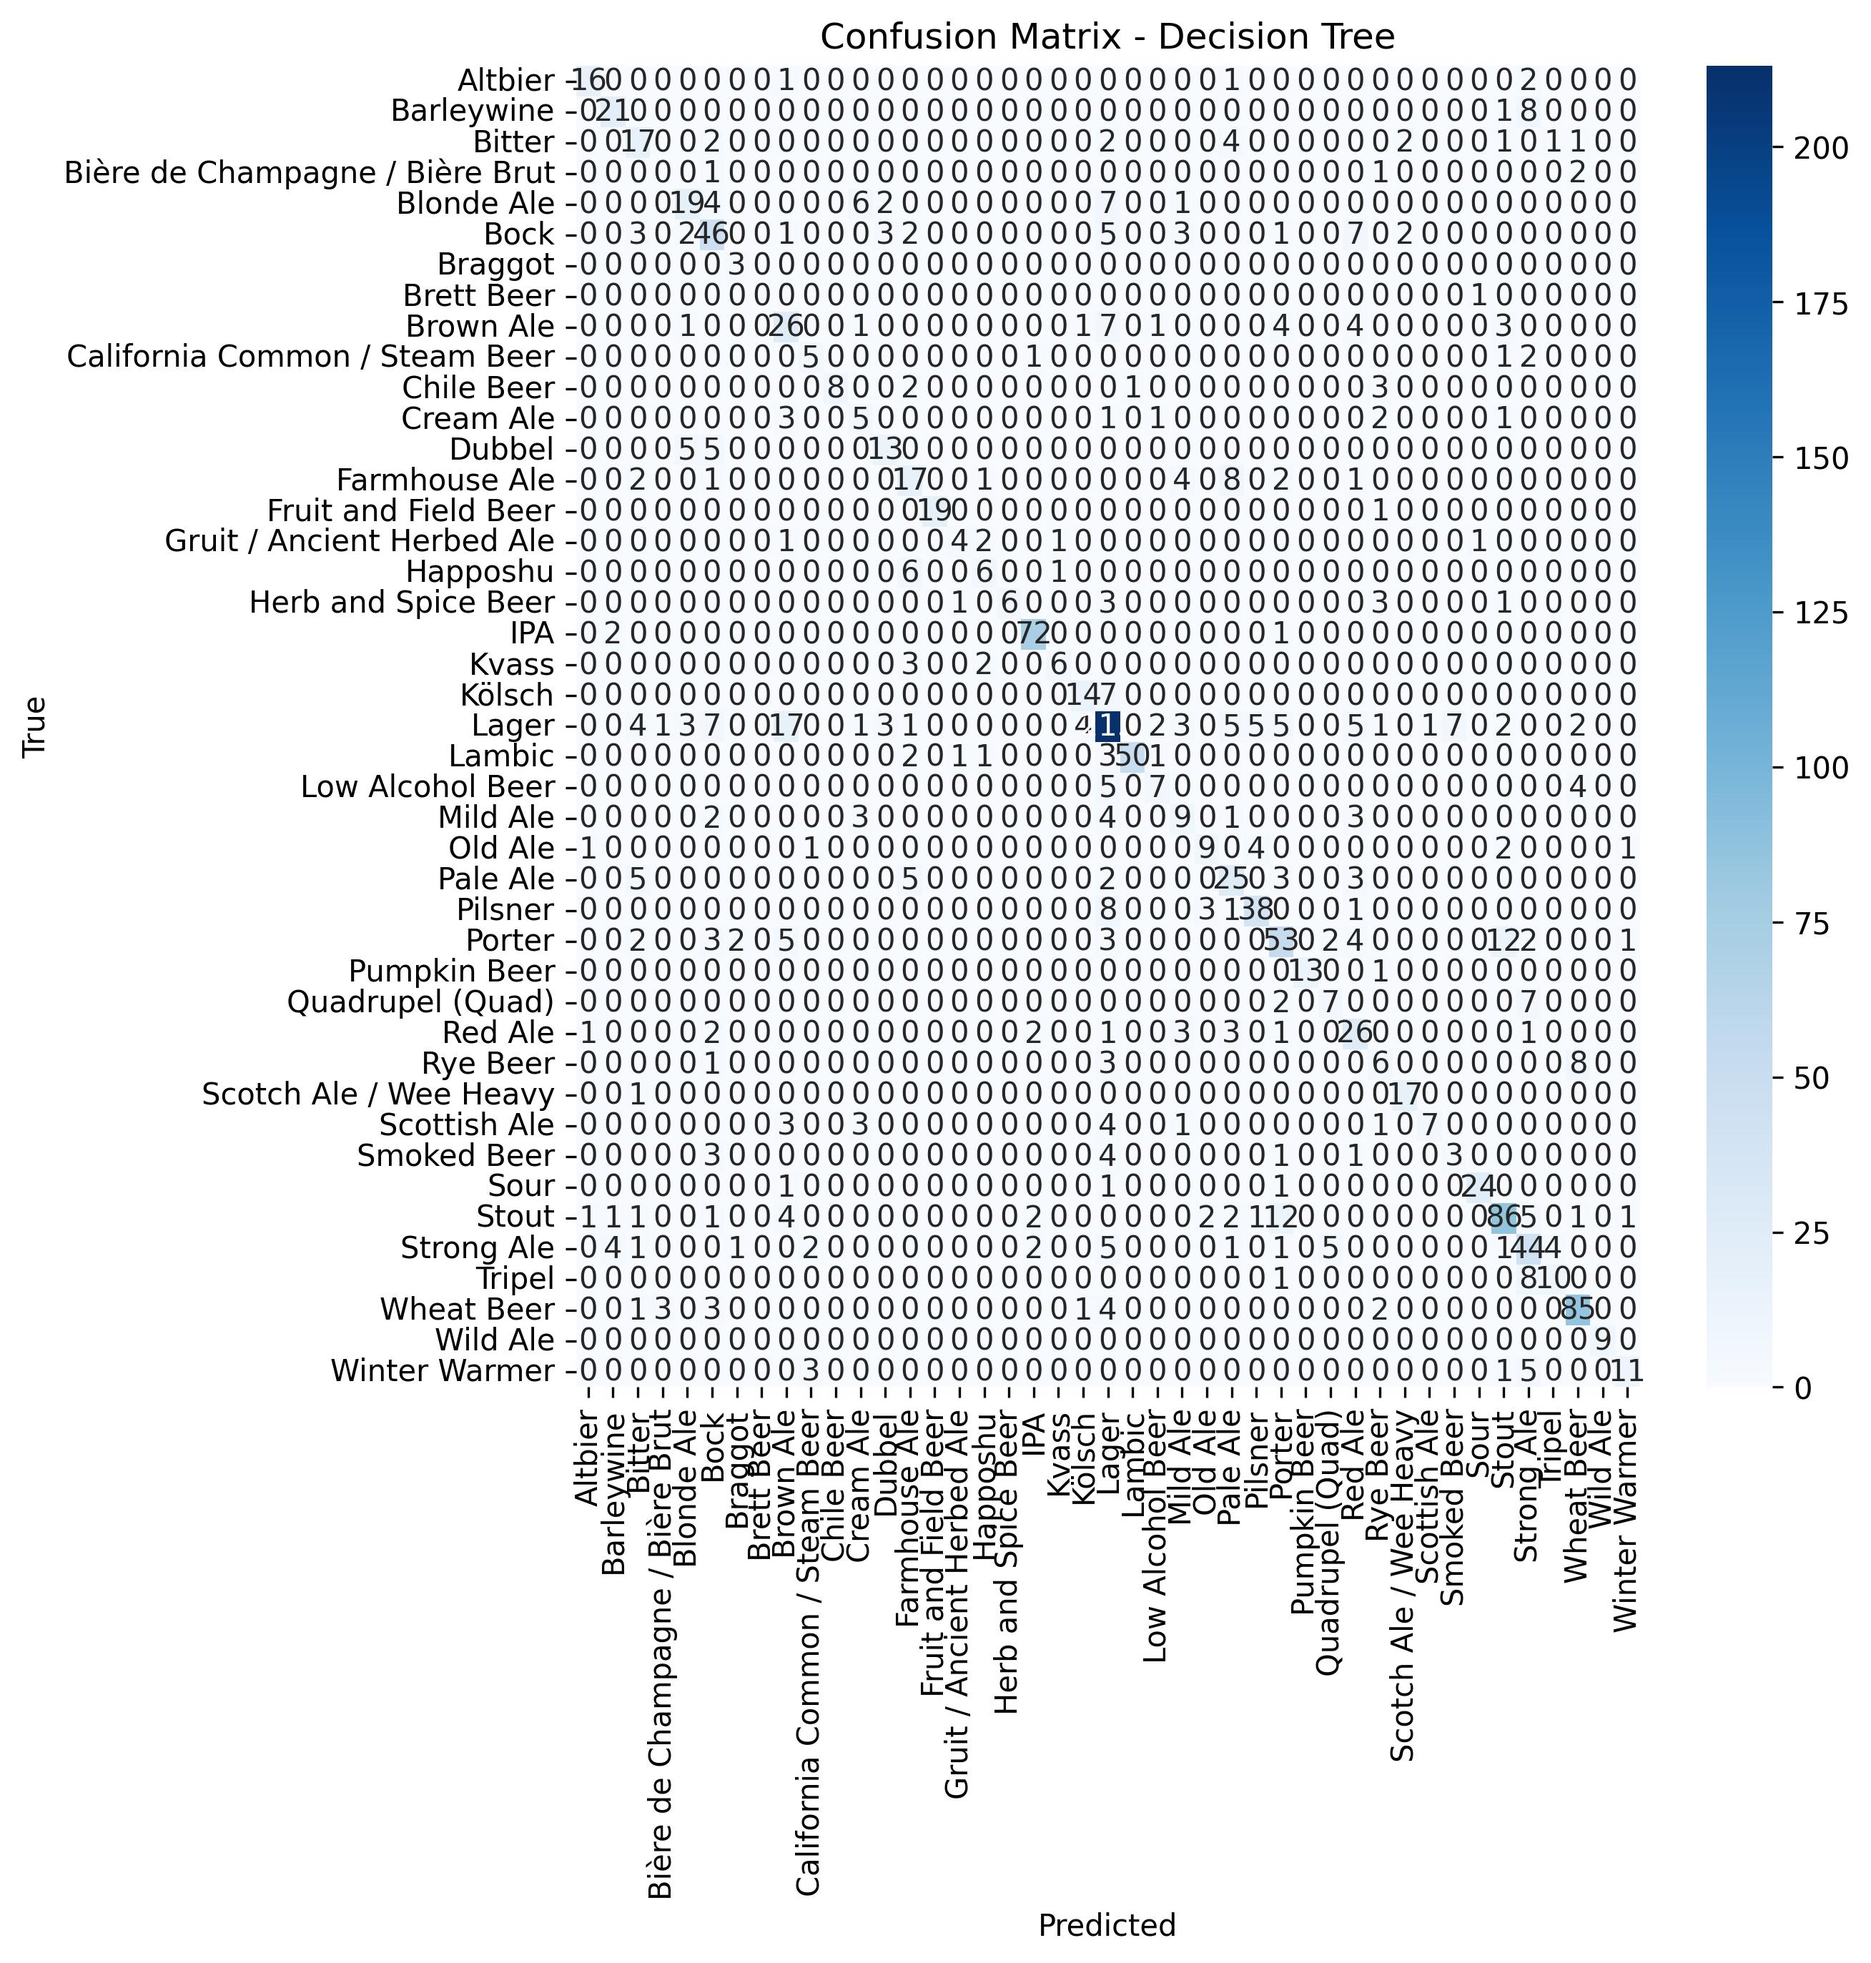
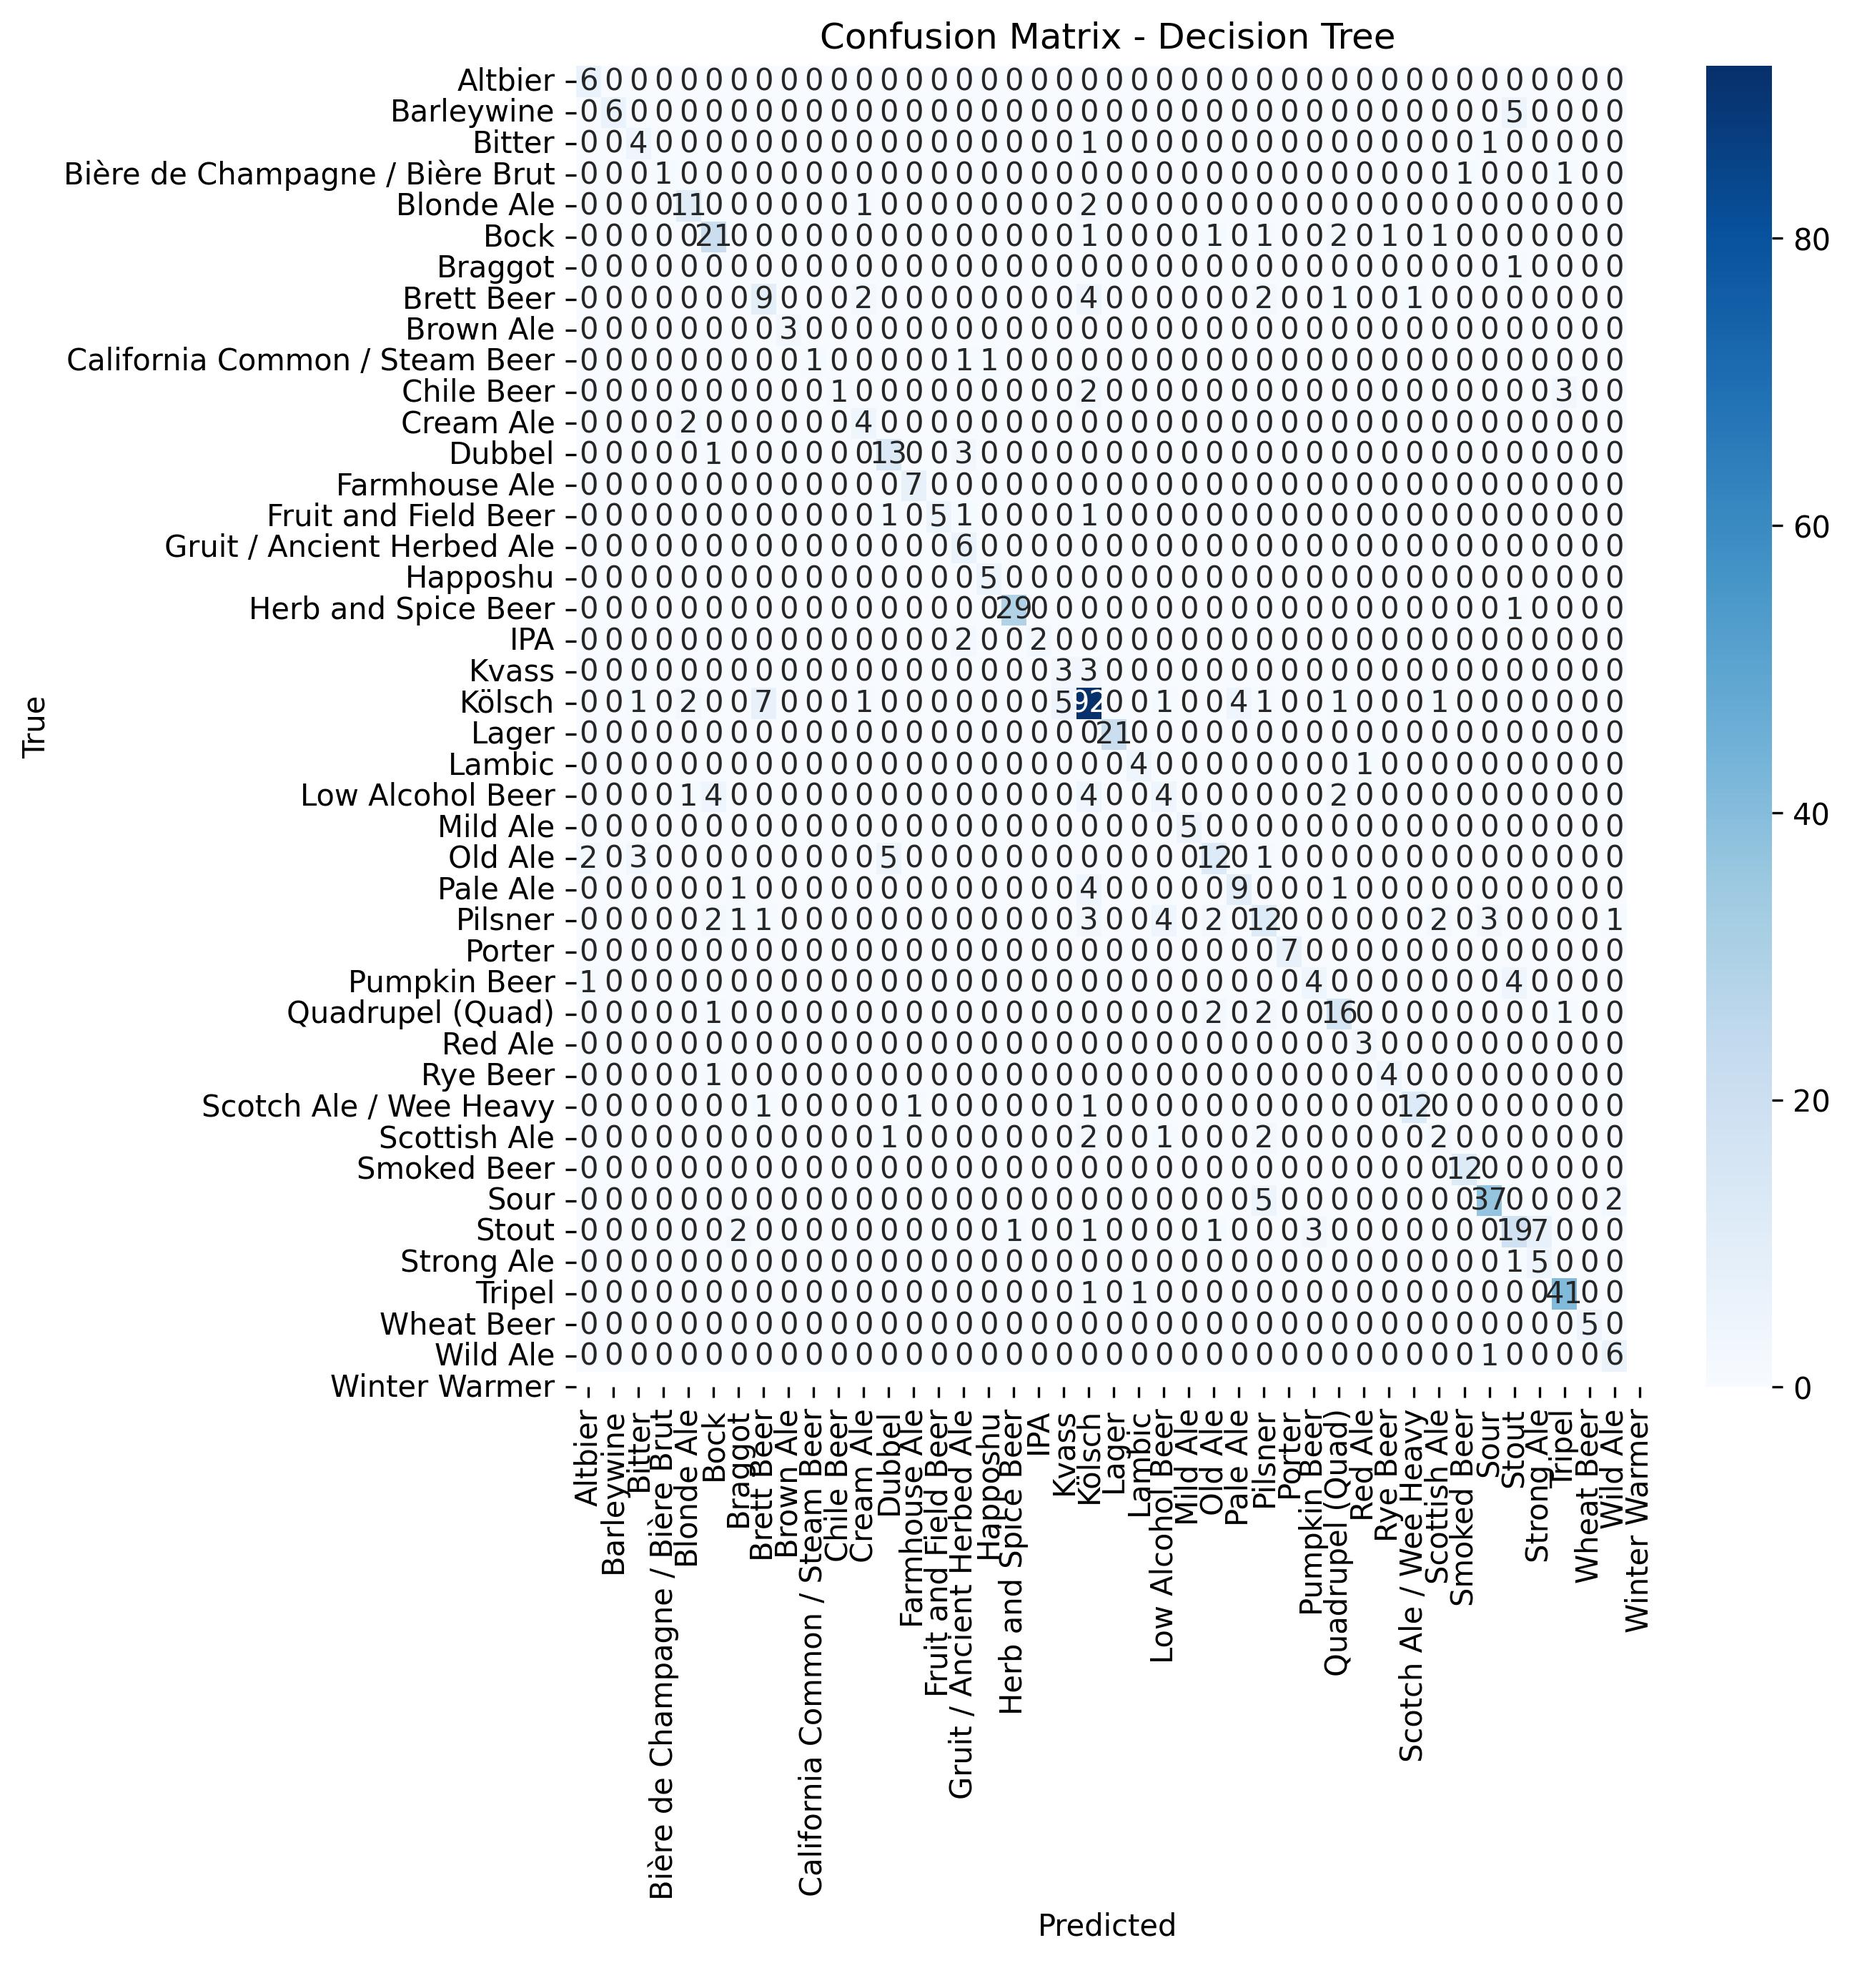
Final Version

Changed region(s): [[0.0309, 0.0, 0.988, 0.9596], [0.5558, 0.9596, 0.6484, 0.9905]]

diff --git a/results.py b/results.py
@@ -31,9 +31,9 @@ label_encoder = LabelEncoder()
 y_encoded = label_encoder.fit_transform(df['StyleSimple'])
 
 # These are the optimal values we found in dtcDepth.py dtcSplit.py and dtcPrune.py
-splitDTC = 5
-depthDTC = 13
-ccp_alpha = 0.0007361568013986981
+splitDTC = 3
+depthDTC = 17
+ccp_alpha = 0.00037478816321209773
 
 # These are the optimal values we calculated in rfcDepth.py and rfcBootstrap.py
 depthRFC = 17
@@ -46,7 +46,7 @@ accuracy_dtc = []
 accuracy_rfc = []
 for state in range(1, runs):
     # Create a (new) random train/test set. 
-    X_train, X_test, y_train, y_test = train_test_split(X, y_encoded, test_size=0.5, random_state=state)
+    X_train, X_test, y_train, y_test = train_test_split(X, y_encoded, test_size=0.2, random_state=state)
 
     # Create the decision tree
     dtc = tree.DecisionTreeClassifier(criterion="gini", max_depth=depthDTC, random_state=0, min_samples_split=splitDTC, ccp_alpha=ccp_alpha)
@@ -74,6 +74,8 @@ print(f"Mean tree:{meanT}, Mean forest:{meanF}")
 # We calculate the confidence interval 
 confidence_dtc = stats.t.interval(0.95, len(accuracy_dtc) - 1, loc=np.mean(accuracy_dtc), scale=stats.sem(accuracy_dtc))
 confidence_rfc = stats.t.interval(0.95, len(accuracy_rfc) - 1, loc=np.mean(accuracy_rfc), scale=stats.sem(accuracy_rfc))
+
+print(f"Confidence dtc {confidence_dtc}, confidence rfc {confidence_rfc}")
 
 # Calculate standard deviation 
 std_dev_dtc = np.std(accuracy_dtc)

diff --git a/decisionTreeClassifier/dtcPrune.py b/decisionTreeClassifier/dtcPrune.py
@@ -26,8 +26,8 @@ label_encoder = LabelEncoder()
 y_encoded = label_encoder.fit_transform(df['StyleSimple'])
 
 # These are the optimal values we found in dtcSplit.py and dtcDepth.py. 
-split = 5
-depth = 13
+split = 3
+depth = 17
 # Create a train and test set. 
 X_train, X_test, y_train, y_test = train_test_split(X, y_encoded, test_size=0.2, random_state=1)
 
@@ -50,7 +50,7 @@ for ccp_alpha in ccp_alphas:
         # Create a (new) random train/test set. 
         X_train, X_test, y_train, y_test = train_test_split(X, y_encoded, test_size=0.2, random_state=i)
         # Create the decision tree
-        dtc = tree.DecisionTreeClassifier(criterion="gini",min_samples_split=split, max_depth=depth,ccp_alpha=ccp_alpha, random_state=1)
+        dtc = tree.DecisionTreeClassifier(criterion="gini",min_samples_split=split, max_depth=depth,ccp_alpha=ccp_alpha, random_state=0)
         dtc = dtc.fit(X_train, y_train)
 
         # Predict the test set and add it to the list. 

diff --git a/decisionTreeClassifier/dtc.py b/decisionTreeClassifier/dtc.py
@@ -30,9 +30,9 @@ label_encoder = LabelEncoder()
 y_encoded = label_encoder.fit_transform(df['StyleSimple'])
 
 # These are the optimal values we found in dtcDepth.py dtcSplit.py and dtcPrune.py
-splitDTC = 5
-depthDTC = 13
-ccp_alpha = 0.0007361568013986981
+splitDTC = 3
+depthDTC = 17
+ccp_alpha = 0.00037478816321209773
 
 # The amount of times we want to run the classifier on different train/test sets. 
 runs = 50
@@ -40,7 +40,7 @@ runs = 50
 accuracy_dtc = []
 for state in range(1, runs):
     # Create a (new) random train/test set. 
-    X_train, X_test, y_train, y_test = train_test_split(X, y_encoded, test_size=0.5, random_state=state)
+    X_train, X_test, y_train, y_test = train_test_split(X, y_encoded, test_size=0.2, random_state=state)
     # Create the decision tree
     dtc = tree.DecisionTreeClassifier(criterion="gini", max_depth=depthDTC, random_state=0, min_samples_split=splitDTC, ccp_alpha=ccp_alpha)
     dtc = dtc.fit(X_train, y_train)

diff --git a/randomForest/rfc.py b/randomForest/rfc.py
@@ -39,7 +39,7 @@ runs = 50
 accuracy_rfc = []
 for state in range(1, runs):
     # Create a (new) random train/test set. 
-    X_train, X_test, y_train, y_test = train_test_split(X, y_encoded, test_size=0.5, random_state=state)
+    X_train, X_test, y_train, y_test = train_test_split(X, y_encoded, test_size=0.2, random_state=state)
     # Create the random forest
     rfc = RandomForestClassifier(criterion="gini", bootstrap=bootstrap, max_depth=depthRFC, random_state=0)
     rfc = rfc.fit(X_train, y_train)
